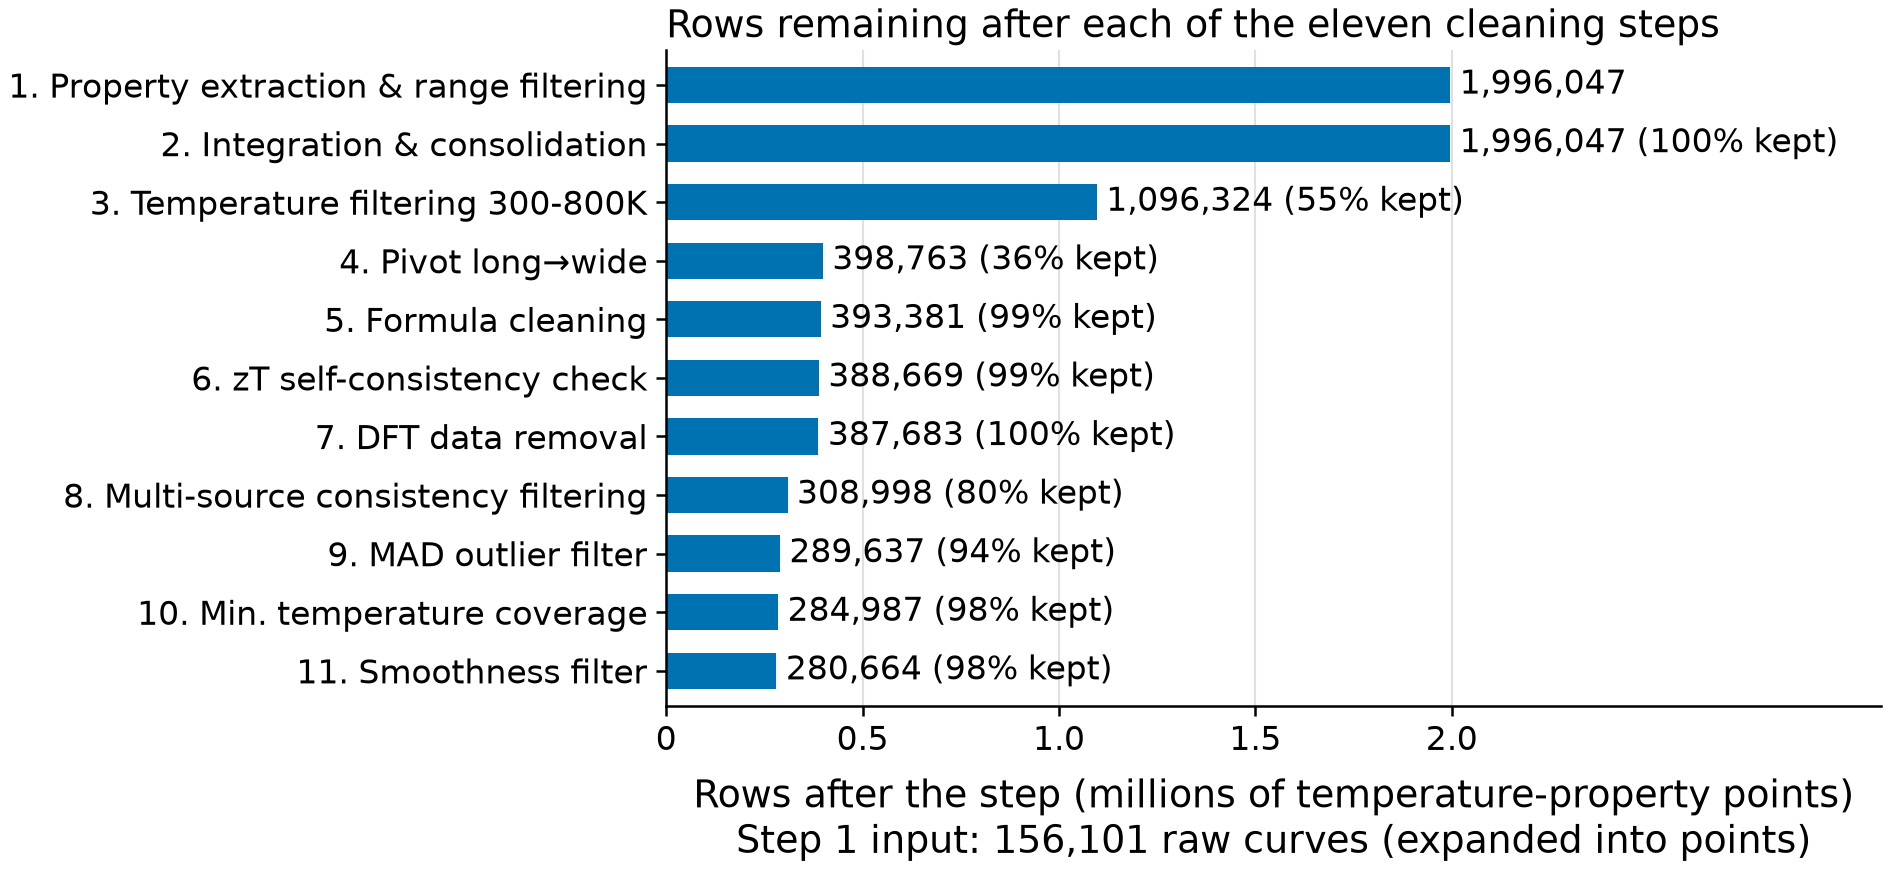
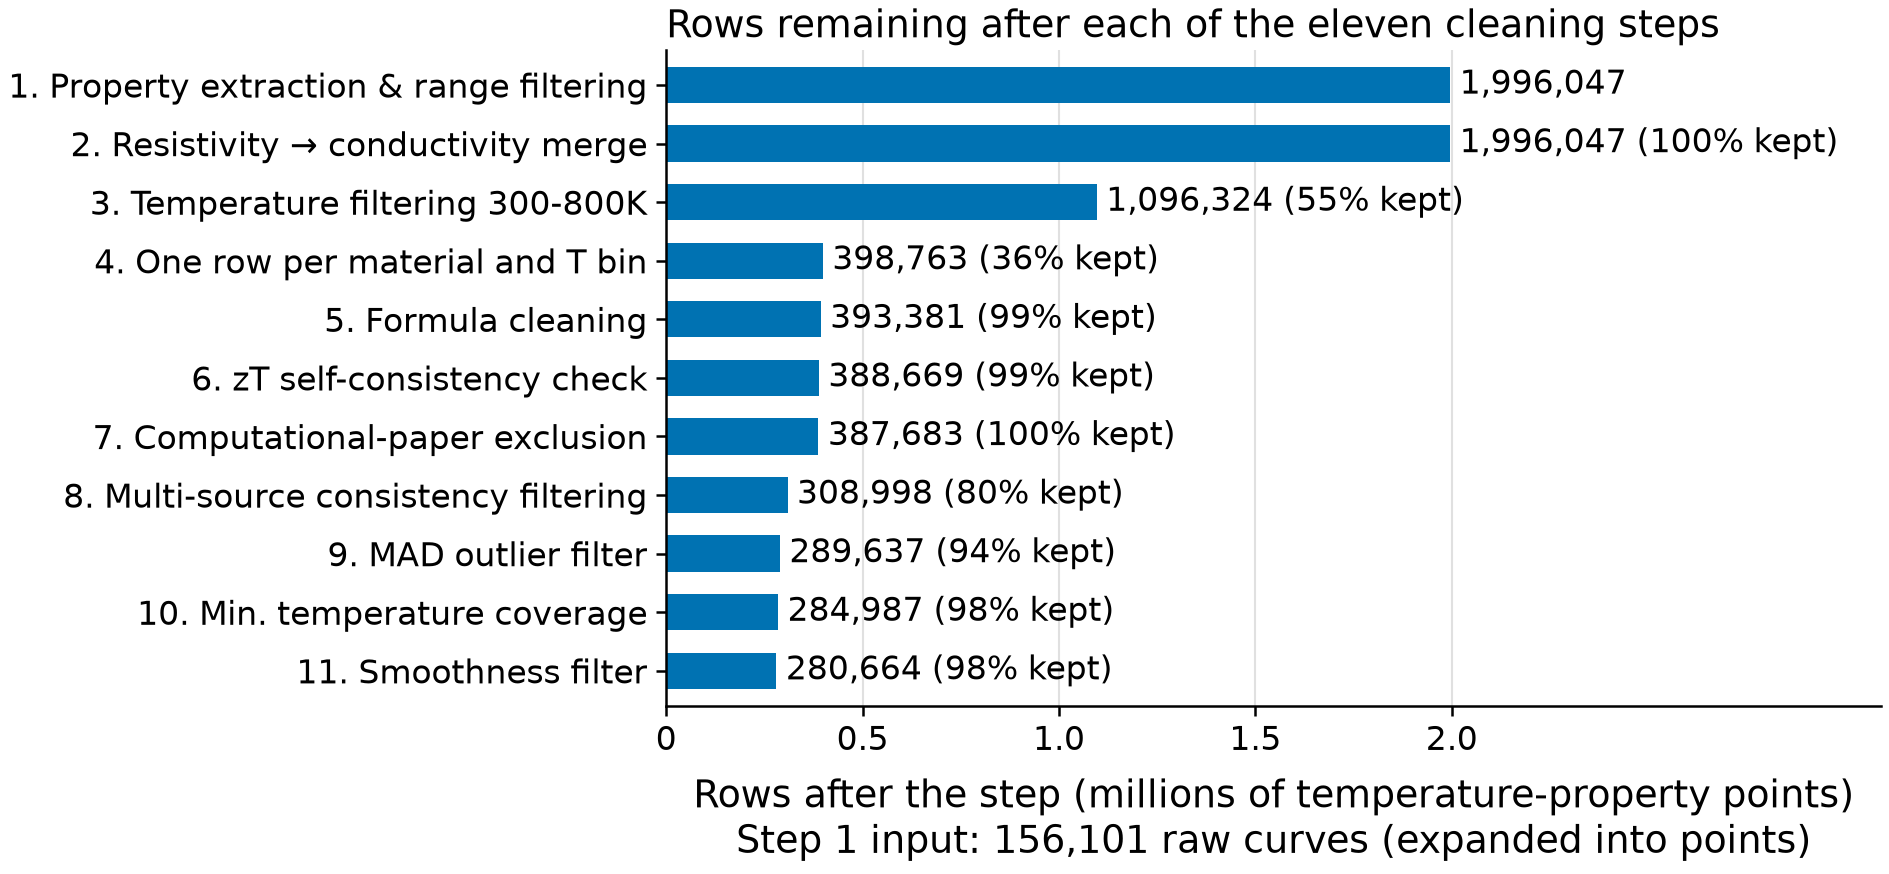
Figure 3 labels from paper wording; step numbers in 2.2

Changed region(s): [[0.0312, 0.278, 0.3436, 0.3398], [0.0625, 0.4634, 0.3436, 0.5252], [0.0312, 0.1545, 0.3436, 0.1854]]

diff --git a/scripts/make_figures.py b/scripts/make_figures.py
@@ -306,12 +306,12 @@ LADDER_HONEST_STRATEGY = "Chemistry-Cluster CV"
 RAW_CURVES = 156_101
 CLEANING_STEPS = [
     ("1. Property extraction\n& range filtering", 1_996_047),
-    ("2. Integration &\nconsolidation", 1_996_047),
+    ("2. Resistivity \u2192 conductivity merge", 1_996_047),
     ("3. Temperature filtering\n300-800K", 1_096_324),
-    ("4. Pivot long→wide", 398_763),
+    ("4. One row per material and T bin", 398_763),
     ("5. Formula cleaning", 393_381),
     ("6. zT self-consistency\ncheck", 388_669),
-    ("7. DFT data removal", 387_683),
+    ("7. Computational-paper exclusion", 387_683),
     ("8. Multi-source\nconsistency filtering", 308_998),
     ("9. MAD outlier filter", 289_637),
     ("10. Min. temperature\ncoverage", 284_987),
@@ -343,8 +343,9 @@ def load_snapfix_cluster_columns(
 # is the strongest available one: each label's anchor term(s) must occur in section 2.2 (prose plus the Figure 3
 # caption), so no label can name a step the paper does not describe.
 CLEANING_LABEL_ANCHORS = {
-    1: ("range filtering",), 2: ("conductivity",), 3: ("300 to 800 K",), 4: ("Pivoting",), 5: ("Formulas",),
-    6: ("S²σT/κ",), 7: ("computational",), 8: ("coefficient of variation",), 9: ("median-absolute-deviation",),
+    1: ("range filtering",), 2: ("Resistivity is inverted to conductivity",), 3: ("300 to 800 K",),
+    4: ("one row per material and temperature bin",), 5: ("Formulas",),
+    6: ("S²σT/κ",), 7: ("identified as computational",), 8: ("coefficient of variation",), 9: ("median-absolute-deviation",),
     10: ("distinct temperature",), 11: ("smoothness filter",),
 }
 
@@ -356,6 +357,8 @@ def check_cleaning_labels_against_paper(labels, paper_path=PAPER_MD_PATH):
     assert m, "section 2.2 not found in paper.md"
     section = m.group(0)
     assert len(labels) == 11 and [int(l.split(".")[0]) for l in labels] == list(range(1, 12)), labels
+    step_numbers = [int(x) for x in re.findall(r"\(step (\d+)[,)]", section)]
+    assert step_numbers == list(range(1, 12)), f"section 2.2 must number the eleven steps once each, in order: {step_numbers}"
     for k, anchors in CLEANING_LABEL_ANCHORS.items():
         for a in anchors:
             assert a in section, f"step {k} ({labels[k - 1]!r}): {a!r} does not occur in paper.md section 2.2"

diff --git a/paper/paper.md b/paper/paper.md
@@ -74,7 +74,7 @@ Training data comes from Starrydata2 [@katsura2025starrydata], a community-curat
 
 
 
-Digitized curves are converted to model-ready rows through eleven stages (Figure 3). Each curve's digitized points are first expanded into individual temperature-property observations and screened against physical bounds, giving 1,996,047 observations. Resistivity is inverted to conductivity and merged with directly reported conductivity. Observations outside 300 to 800 K are discarded and the remainder binned at 25 K, leaving 1,096,324. Pivoting to one row per material and temperature bin, averaging where multiple digitized points fall in the same bin, gives 398,763 rows.
+Digitized curves are converted to model-ready rows through eleven stages (Figure 3). Each curve's digitized points are first expanded into individual temperature-property observations and screened against physical bounds (step 1), giving 1,996,047 observations. Resistivity is inverted to conductivity and merged with directly reported conductivity (step 2). Observations outside 300 to 800 K are discarded (step 3) and the remainder binned at 25 K, leaving 1,096,324. Pivoting to one row per material and temperature bin (step 4), averaging where multiple digitized points fall in the same bin, gives 398,763 rows.
 
 
 
@@ -84,7 +84,7 @@ Digitized curves are converted to model-ready rows through eleven stages (Figure
 
 
 
-Six filters then act on those rows. Formulas that cannot be parsed are dropped (98.7% retained). Rows reporting all four properties are checked against S²σT/κ and discarded if the relative discrepancy exceeds 50% (98.8%). Publications identified as computational rather than experimental are excluded entirely (99.7%). Where several sources report the same composition at the same temperature, the group is discarded if any property's coefficient of variation exceeds a per-property threshold (79.7%). A median-absolute-deviation filter at 3.5σ removes outliers (93.7%). Materials measured at fewer than three distinct temperature bins are removed (98.4%), and a rolling-median smoothness filter removes remaining spikes within each measurement series (98.5%).
+Six filters then act on those rows. Formulas that cannot be parsed are dropped (step 5, 98.7% retained). Rows reporting all four properties are checked against S²σT/κ and discarded if the relative discrepancy exceeds 50% (step 6, 98.8%). Publications identified as computational rather than experimental are excluded entirely (step 7, 99.7%). Where several sources report the same composition at the same temperature, the group is discarded if any property's coefficient of variation exceeds a per-property threshold (step 8, 79.7%). A median-absolute-deviation filter at 3.5σ removes outliers (step 9, 93.7%). Materials measured at fewer than three distinct temperature bins are removed (step 10, 98.4%), and a rolling-median smoothness filter removes remaining spikes within each measurement series (step 11, 98.5%).
 
 
 
